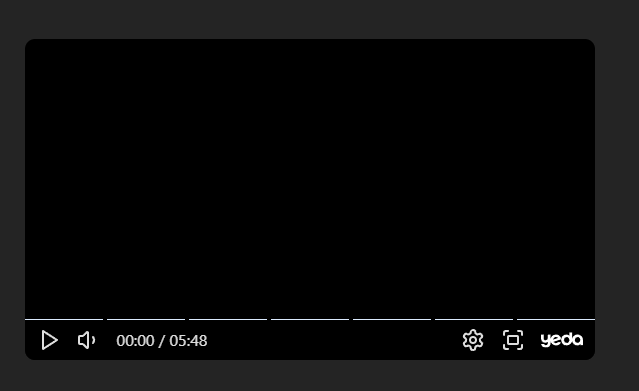
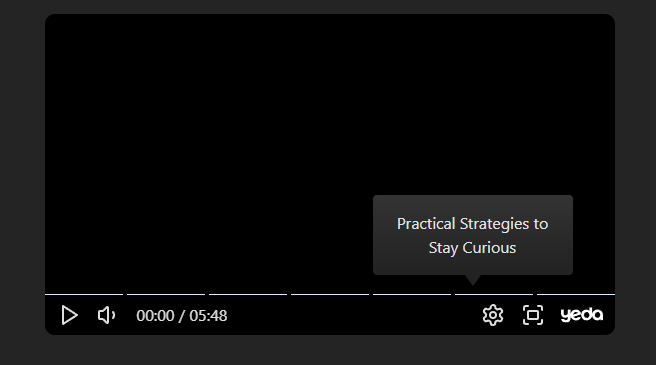
Chapters are showing up

Changed region(s): [[0.0297, 0.0301, 0.9515, 0.9342], [0.5649, 0.5123, 0.892, 0.7836]]

diff --git a/src/App.tsx b/src/App.tsx
@@ -123,8 +123,13 @@ function App() {
           {/* Chapters */}
           {testInput.chapters.map((chapter, index) => {
             return (
-              <div key={`chapter_${index}`} className='bg-blue-100 w-full h-[1px]'>
-                {/* <div hidden absolute>{chapter.title}</div> */}
+              <div key={`chapter_${index}`} className='chapter bg-blue-100 w-full h-[1px]'>
+                <div className='absolute p-4 rounded-[4px] bottom-[20px] arrow h-fit w-full max-w-[200px] text-center hidden'
+                  style={{
+                    background: 'linear-gradient(#333, #222)'
+                  }}>
+                  {chapter.title}
+                </div>
               </div>
             )
           })}

diff --git a/src/index.css b/src/index.css
@@ -19,7 +19,8 @@
   -moz-osx-font-smoothing: grayscale;
 }
 
-body, #root {
+body,
+#root {
   min-height: 100vh;
 }
 
@@ -32,4 +33,21 @@ body, #root {
     color: #213547;
     background-color: #ffffff;
   }
+}
+
+.arrow:after {
+  content: " ";
+  border-top: 11px solid #222;
+  border-left: 8px solid transparent;
+  border-right: 8px solid transparent;
+  position: absolute;
+  top: 100%;
+  right: 0;
+  left: 0;
+  margin: auto;
+  width: 11px;
+}
+
+.chapter:hover .arrow {
+  display: block;
 }

diff --git a/README.md b/README.md
@@ -57,3 +57,7 @@ v9: Timeline looks good! (Still not hoverable xD)
 v10: Rounded edges loosk good!
 
 ![v10](v10.png)
+
+v11: Chapters are showing up
+
+![v11](v11.png)
